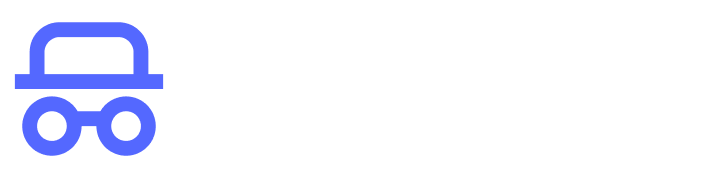
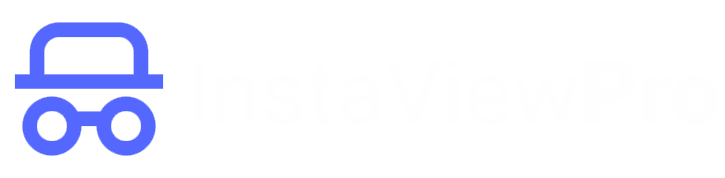
deploy

diff --git a/front-end/src/app/layout.tsx b/front-end/src/app/layout.tsx
@@ -1,7 +1,7 @@
 import type { Metadata } from "next";
 import { Geist, Geist_Mono } from "next/font/google";
 import "./globals.css";
-import Script from "next/script";
+// import Script from "next/script";
 
 const geistSans = Geist({
   variable: "--font-geist-sans",
@@ -14,7 +14,7 @@ const geistMono = Geist_Mono({
 });
 
 export const metadata: Metadata = {
-  title: "EspiaFácil",
+  title: "InstaViewPro",
   description: "Generated by create next app",
   icons: {
     icon: "/Favicon2.png",
@@ -31,7 +31,7 @@ export default function RootLayout({
       <body className={`${geistSans.variable} ${geistMono.variable} antialiased`}>
         {children}
    {/* Meta Pixel */}
-   <Script
+   {/* <Script
           id="meta-pixel"
           strategy="afterInteractive"
           dangerouslySetInnerHTML={{
@@ -48,19 +48,19 @@ export default function RootLayout({
               fbq('track', 'PageView');
             `,
           }}
-        />
+        /> */}
 
         {/* Novo Kwai Pixel: Bloco 1 - Definição da função */}
-        <Script
+        {/* <Script
           id="kwai-sdk"
           strategy="afterInteractive"
           dangerouslySetInnerHTML={{
             __html: `!function(e,t){"object"==typeof exports&&"object"==typeof module?module.exports=t():"function"==typeof define&&define.amd?define([],t):"object"==typeof exports?exports.install=t():e.install=t()}(window,(function(){return function(e){var t={};function n(o){if(t[o])return t[o].exports;var r=t[o]={i:o,l:!1,exports:{}};return e[o].call(r.exports,r,r.exports,n),r.l=!0,r.exports}return n.m=e,n.c=t,n.d=function(e,t,o){n.o(e,t)||Object.defineProperty(e,t,{enumerable:!0,get:o})},n.r=function(e){"undefined"!=typeof Symbol&&Symbol.toStringTag&&Object.defineProperty(e,Symbol.toStringTag,{value:"Module"}),Object.defineProperty(e,"__esModule",{value:!0})},n.t=function(e,t){if(1&t&&(e=n(e)),8&t)return e;if(4&t&&"object"==typeof e&&e&&e.__esModule)return e;var o=Object.create(null);if(n.r(o),Object.defineProperty(o,"default",{enumerable:!0,value:e}),2&t&&"string"!=typeof e)for(var r in e)n.d(o,r,function(t){return e[t]}.bind(null,r));return o},n.n=function(e){var t=e&&e.__esModule?function(){return e.default}:function(){return e};return n.d(t,"a",t),t},n.o=function(e,t){return Object.prototype.hasOwnProperty.call(e,t)},n.p="",n(n.s=0)}([function(e,t,n){"use strict";var o=this&&this.__spreadArray||function(e,t,n){if(n||2===arguments.length)for(var o,r=0,i=t.length;r<i;r++)!o&&r in t||(o||(o=Array.prototype.slice.call(t,0,r)),o[r]=t[r]);return e.concat(o||Array.prototype.slice.call(t))};Object.defineProperty(t,"__esModule",{value:!0});var r=function(e,t,n){var o,i=e.createElement("script");i.type="text/javascript",i.async=!0,i.src=t,n&&(i.onerror=function(){r(e,n)});var a=e.getElementsByTagName("script")[0];null===(o=a.parentNode)||void 0===o||o.insertBefore(i,a)};!function(e,t,n){e.KwaiAnalyticsObject=n;var i=e[n]=e[n]||[];i.methods=["page","track","identify","instances","debug","on","off","once","ready","alias","group","enableCookie","disableCookie"];var a=function(e,t){e[t]=function(){for(var n=[],r=0;r<arguments.length;r++)n[r]=arguments[r];var i=o([t],n,!0);e.push(i)}};i.methods.forEach((function(e){a(i,e)})),i.instance=function(e){var t,n=(null===(t=i._i)||void 0===t?void 0:t[e])||[];return i.methods.forEach((function(e){a(n,e)})),n},i.load=function(e,o){var a="https://s1.kwai.net/kos/s101/nlav11187/pixel/events.js";i._i=i._i||{},i._i[e]=[],i._i[e]._u=a,i._t=i._t||{},i._t[e]=+new Date,i._o=i._o||{},i._o[e]=o||{};var c="?sdkid=".concat(e,"&lib=").concat(n);r(t,a+c,"https://s16-11187.ap4r.com/kos/s101/nlav11187/pixel/events.js"+c)}}(window,document,"kwaiq")}])}));`,
           }}
-        />
+        /> */}
 
         {/* Novo Kwai Pixel: Bloco 2 - Execução da função */}
-        <Script
+        {/* <Script
           id="kwai-load"
           strategy="afterInteractive"
           dangerouslySetInnerHTML={{
@@ -69,7 +69,7 @@ export default function RootLayout({
               kwaiq.page();
             `,
           }}
-        />
+        /> */}
       </body>
     </html>
   );

diff --git a/front-end/src/app/page.tsx b/front-end/src/app/page.tsx
@@ -508,7 +508,7 @@ export default function Home() {
 
                       <h2 className="px-0 flex text-base text-gray-300">
                         Our system is searching for vulnerabilities to bypass
-                        the account's privacy restrictions.
+                        This account&apos;s privacy settings are restricted.
                       </h2>
                     </div>
                   )}
